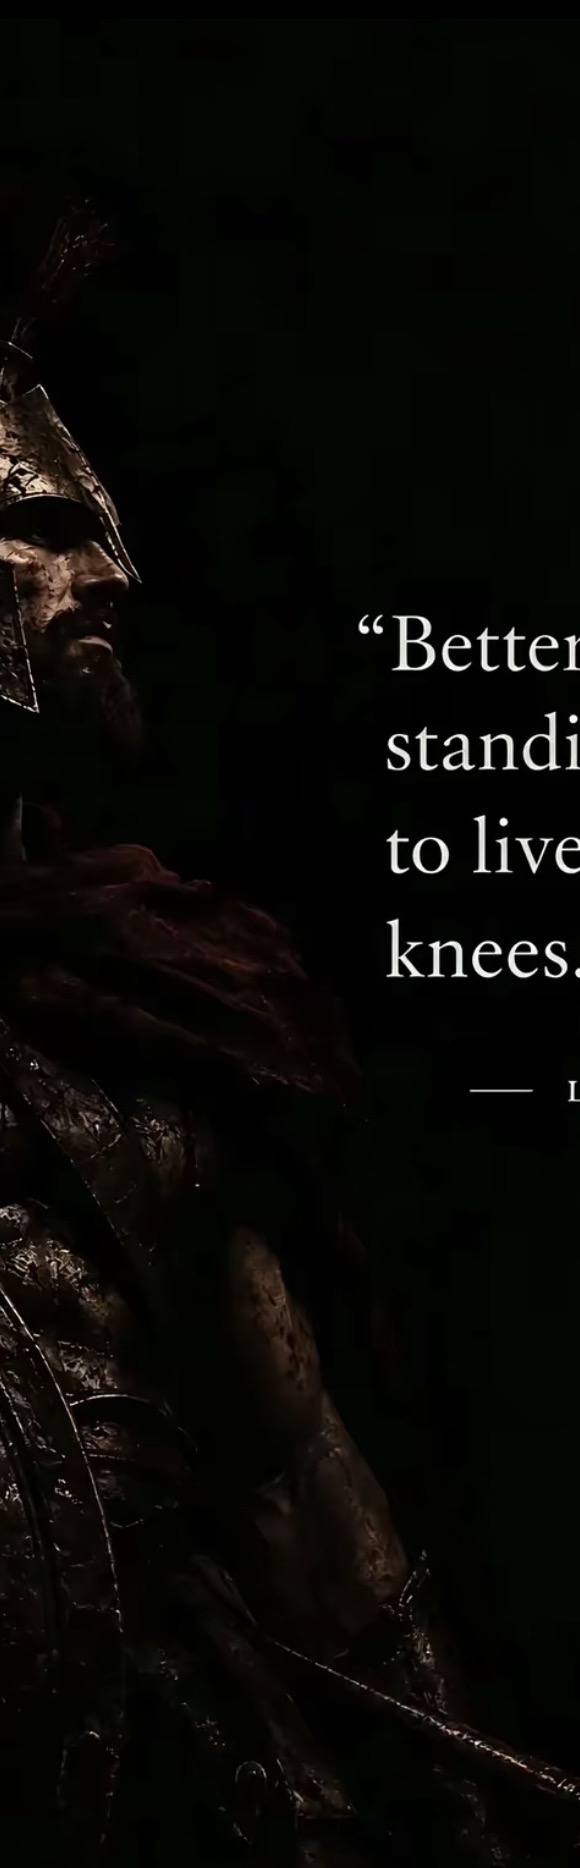
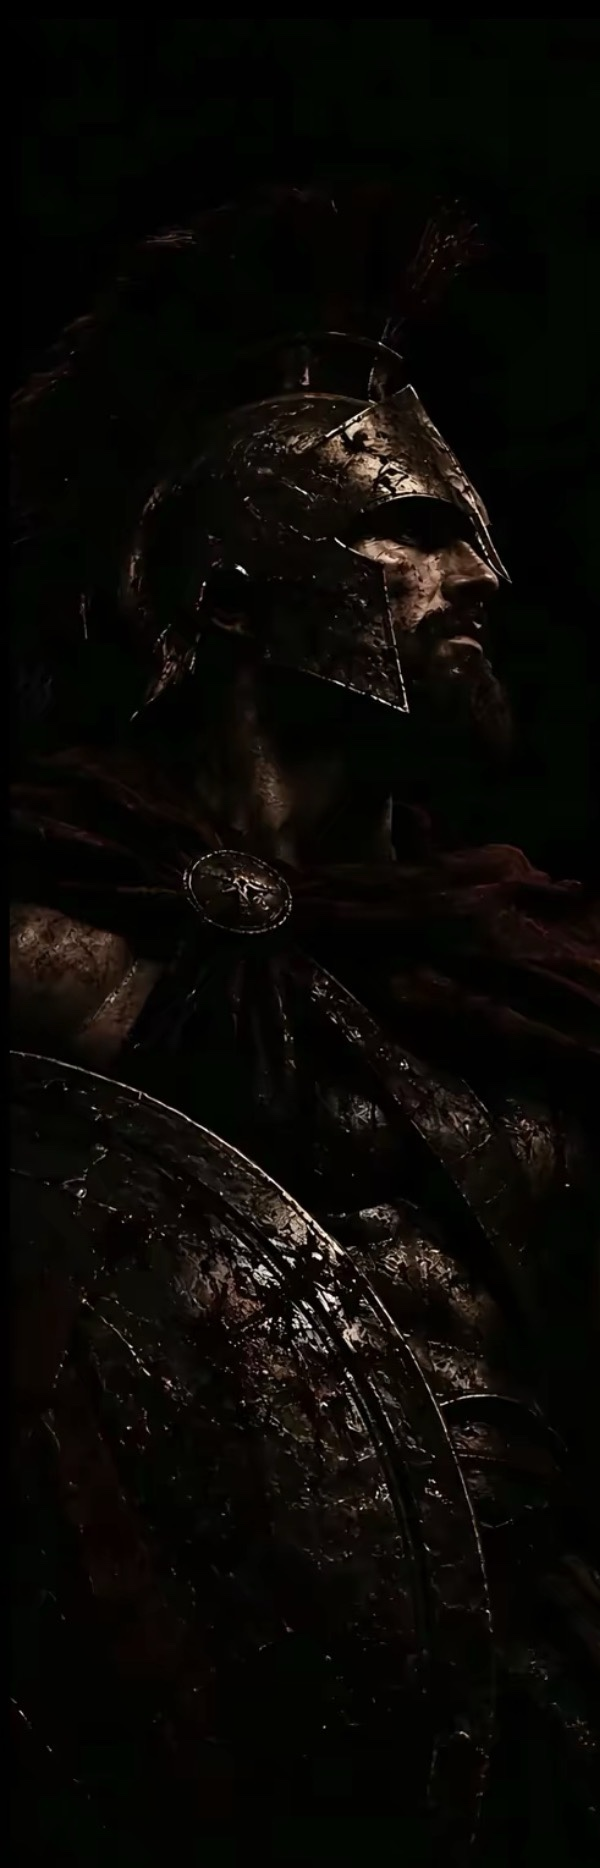
App Store prep: privacy policy, listing copy, 6.9-inch screenshots from the render harness
Also crops the Leonidas portrait from the left edge (sips ignored the zero offset) and
draws the reminder switch and time statically in previews.

diff --git a/Tools/screens/main.swift b/Tools/screens/main.swift
@@ -4,8 +4,82 @@ import UIKit
 // Renders Virtus's screens with a sample profile to one PNG (Mac Catalyst, no simulator needed).
 // Usage: screens <output.png>
 
+/// App Store screenshots: 440x956 pt at 3x = 1320x2868 (iPhone 6.9"). Today is rendered on a day whose
+/// quote has a portrait, so the first screenshot shows the art.
+@MainActor
+func store(into dir: URL) async {
+    try? FileManager.default.createDirectory(at: dir, withIntermediateDirectories: true)
+    let tmp = FileManager.default.temporaryDirectory.appendingPathComponent("virtus-store-\(UUID().uuidString)")
+    defer { try? FileManager.default.removeItem(at: tmp) }
+    var cal = Calendar(identifier: .gregorian)
+    cal.timeZone = TimeZone(identifier: "Europe/London")!
+    Portraits.directory = URL(fileURLWithPath: FileManager.default.currentDirectoryPath).appendingPathComponent("Portraits")
+    let leonidasDay = (0..<QuoteLibrary.all.count).first { DailyQuote.quote(day: $0).author == "Leonidas" } ?? 0
+    let now = cal.date(byAdding: .day, value: leonidasDay, to: cal.startOfDay(for: DailyQuote.epoch))!.addingTimeInterval(9 * 3600)
+    let model = AppModel(env: VirtusEnvironment(shared: SharedStore(root: tmp), now: { now }, calendar: cal))
+    model.start()
+    model.setName("Jason")
+    model.setReminder(on: true, hour: 7, minute: 0)
+    for d in [0, 2, 5] { model.pin(d == 0 ? model.today : model.archive(days: 6)[d].quote) }
+    model.message = nil
+    let alexander = QuoteLibrary.all.first { $0.author == "Alexander the Great" && $0.text.count > 100 }!
+    let marcus = QuoteLibrary.all.first { $0.author == "Marcus Aurelius" && $0.text.count < 60 }!
+
+    let widgets = VStack(alignment: .leading, spacing: 22) {
+        Caps("On your Home Screen", size: 11, color: VirtusPalette.inkFaint, tracking: 3).padding(.top, 60)
+        VirtusWidgetContent(slot: WidgetSlot(date: now, quote: model.today), size: .large, pinned: true)
+            .frame(width: 364, height: 382).background(VirtusPalette.black)
+            .clipShape(RoundedRectangle(cornerRadius: 24, style: .continuous))
+            .overlay(RoundedRectangle(cornerRadius: 24, style: .continuous).strokeBorder(VirtusPalette.hairline))
+        HStack(spacing: 22) {
+            VirtusWidgetContent(slot: WidgetSlot(date: now, quote: marcus), size: .small, pinned: false)
+                .frame(width: 171, height: 171).background(VirtusPalette.black)
+                .clipShape(RoundedRectangle(cornerRadius: 24, style: .continuous))
+                .overlay(RoundedRectangle(cornerRadius: 24, style: .continuous).strokeBorder(VirtusPalette.hairline))
+            VStack(alignment: .leading, spacing: 10) {
+                Caps("Lock Screen", size: 10, color: VirtusPalette.inkFaint, tracking: 2.4)
+                VirtusWidgetContent(slot: WidgetSlot(date: now, quote: marcus), size: .rectangular, pinned: false)
+                    .foregroundStyle(VirtusPalette.ink).frame(width: 171)
+            }
+        }
+        Spacer()
+    }
+    .frame(maxWidth: .infinity, alignment: .leading)
+    .padding(.horizontal, 38)
+
+    let shots: [(String, AnyView, AppModel.Route)] = [
+        ("1-today", AnyView(TodayScreen().environment(model)), .today),
+        ("2-quote", AnyView(QuoteDetail(quote: alexander, close: {}).environment(model)), .today),
+        ("3-profile", AnyView(ProfileScreen(preview: true).environment(model)), .profile),
+        ("4-archive", AnyView(ArchiveScreen(preview: true).environment(model)), .archive),
+        ("5-widgets", AnyView(widgets), .today),
+    ]
+    for (name, view, route) in shots {
+        let page = ZStack(alignment: .top) {
+            VirtusPalette.black
+            VStack(spacing: 0) {
+                view
+                RouteBar(route: .constant(route)).padding(.bottom, 24)
+            }
+            .padding(.top, 54)
+        }
+        .frame(width: 440, height: 956)
+        .environment(\.colorScheme, .dark)
+        .tint(VirtusPalette.gold)
+        let renderer = ImageRenderer(content: page)
+        renderer.scale = 3
+        guard let image = renderer.uiImage, let data = image.pngData() else { print("render failed: \(name)"); exit(1) }
+        try? data.write(to: dir.appendingPathComponent("\(name).png"))
+        print("store \(name) \(Int(image.size.width * image.scale))x\(Int(image.size.height * image.scale))")
+    }
+}
+
 @MainActor
 func run() async {
+    if CommandLine.arguments.dropFirst().first == "--store" {
+        await store(into: URL(fileURLWithPath: CommandLine.arguments.dropFirst(2).first ?? "build/store"))
+        return
+    }
     let tmp = FileManager.default.temporaryDirectory.appendingPathComponent("virtus-screens-\(UUID().uuidString)")
     defer { try? FileManager.default.removeItem(at: tmp) }
     var cal = Calendar(identifier: .gregorian)

diff --git a/Virtus/Views/ProfileScreen.swift b/Virtus/Views/ProfileScreen.swift
@@ -94,7 +94,7 @@ struct ProfileContent: View {
 
             // More
             Caps("More", size: 10, color: VirtusPalette.inkFaint, tracking: 3).padding(.top, 28)
-            ReminderRow().padding(.vertical, 12)
+            ReminderRow(preview: preview).padding(.vertical, 12)
             Hairline()
             Button(action: showGuide) {
                 HStack {
@@ -117,6 +117,8 @@ struct ProfileContent: View {
 /// Daily reminder on/off with its time.
 struct ReminderRow: View {
     @Environment(AppModel.self) private var model
+    /// The render harness cannot draw a UIKit switch, so it gets a drawn one.
+    var preview = false
 
     var body: some View {
         let on = Binding(get: { model.profile.reminderOn },
@@ -128,11 +130,32 @@ struct ReminderRow: View {
                 model.setReminder(on: model.profile.reminderOn, hour: c.hour ?? 7, minute: c.minute ?? 0)
             })
         VStack(spacing: 10) {
-            Toggle(isOn: on) {
-                Text("Daily reminder").font(VirtusFont.body(17)).foregroundStyle(VirtusPalette.ink)
+            if preview {
+                HStack {
+                    Text("Daily reminder").font(VirtusFont.body(17)).foregroundStyle(VirtusPalette.ink)
+                    Spacer()
+                    Capsule().fill(model.profile.reminderOn ? VirtusPalette.gold : VirtusPalette.raised)
+                        .frame(width: 51, height: 31)
+                        .overlay(alignment: model.profile.reminderOn ? .trailing : .leading) {
+                            Circle().fill(.white).padding(2)
+                        }
+                }
+            } else {
+                Toggle(isOn: on) {
+                    Text("Daily reminder").font(VirtusFont.body(17)).foregroundStyle(VirtusPalette.ink)
+                }
+                .tint(VirtusPalette.gold)
             }
-            .tint(VirtusPalette.gold)
-            if model.profile.reminderOn {
+            if model.profile.reminderOn, preview {
+                HStack {
+                    Text("Time").font(VirtusFont.body(15)).foregroundStyle(VirtusPalette.inkSoft)
+                    Spacer()
+                    Text(time.wrappedValue.formatted(date: .omitted, time: .shortened))
+                        .font(VirtusFont.body(15)).foregroundStyle(VirtusPalette.ink)
+                        .padding(.horizontal, 12).padding(.vertical, 6)
+                        .background(VirtusPalette.raised, in: RoundedRectangle(cornerRadius: 8, style: .continuous))
+                }
+            } else if model.profile.reminderOn {
                 DatePicker("Time", selection: time, displayedComponents: .hourAndMinute)
                     .font(VirtusFont.body(15))
                     .foregroundStyle(VirtusPalette.inkSoft)

diff --git a/Virtus/Views/ArchiveScreen.swift b/Virtus/Views/ArchiveScreen.swift
@@ -10,7 +10,8 @@ struct ArchiveScreen: View {
         VStack(spacing: 0) {
             PageHeader(left: "Archive", right: "Past days")
             if preview {
-                ArchiveList(items: Array(model.archive(days: 4))).padding(.horizontal, 28)
+                ArchiveList(items: Array(model.archive(days: 7))).padding(.horizontal, 28)
+                Spacer(minLength: 0)
             } else {
                 ScrollView {
                     ArchiveList(items: model.archive()).padding(.horizontal, 28)

diff --git a/docs/app-store.md b/docs/app-store.md
@@ -1,0 +1,42 @@
+# App Store listing
+
+Paste these into App Store Connect. Plain text, no emojis.
+
+**Name** (30 max): Virtus
+If "Virtus" is taken, use: Virtus Quotes
+
+**Subtitle** (30 max): One quotation a day
+
+**Category**: Lifestyle. Secondary: Education.
+
+**Age rating**: answer "None" to everything. 4+.
+
+**Description**
+
+One quotation a day from the men who earned their words: Marcus Aurelius, Seneca, Epictetus, Leonidas,
+Alexander, Caesar, Napoleon, Musashi, Churchill and more. Set in black with serif type and nothing else
+on the screen.
+
+Today: the day's quote, the same for everyone, new at midnight.
+Archive: every past day, so nothing is lost.
+Profile: pin the lines that matter to you and keep your streak.
+Widgets: today's quote or your pinned ones on the Home Screen and the Lock Screen.
+Reminder: a morning notification with the day's quote, if you want one.
+Share: a black card with the quote, ready for messages or Instagram.
+
+658 quotations, each with its source. No account, no ads, no tracking. Everything stays on your phone.
+
+**Keywords** (100 max):
+stoic,quotes,daily quote,motivation,marcus aurelius,seneca,discipline,widget,wisdom,philosophy
+
+**Support URL**: https://github.com/jxmils/virtus
+**Privacy Policy URL**: https://github.com/jxmils/virtus/blob/main/docs/privacy.md
+
+**App Privacy** questionnaire: "Data Not Collected".
+
+**Copyright**: 2026 Jason Miller
+
+**Screenshots**: `Tools/check.sh` writes `build/store/*.png` at 1320x2868 (iPhone 6.9"). Upload them for
+the 6.9" slot; App Store Connect reuses them for the smaller sizes.
+
+**What's New** (1.0): First release.

diff --git a/docs/privacy.md b/docs/privacy.md
@@ -1,0 +1,14 @@
+# Virtus privacy policy
+
+Virtus does not collect, store or share any personal data.
+
+- Your name, the quotes you pin and your settings are stored only on your device, in a container shared
+  with the app's widgets. They are never sent anywhere.
+- The daily reminder is a local notification scheduled on your device.
+- The app has no account, no analytics, no advertising and no third-party code.
+
+If you delete the app, everything it stored is deleted with it.
+
+Questions: open an issue at https://github.com/jxmils/virtus.
+
+Last updated 15 October 2026.
